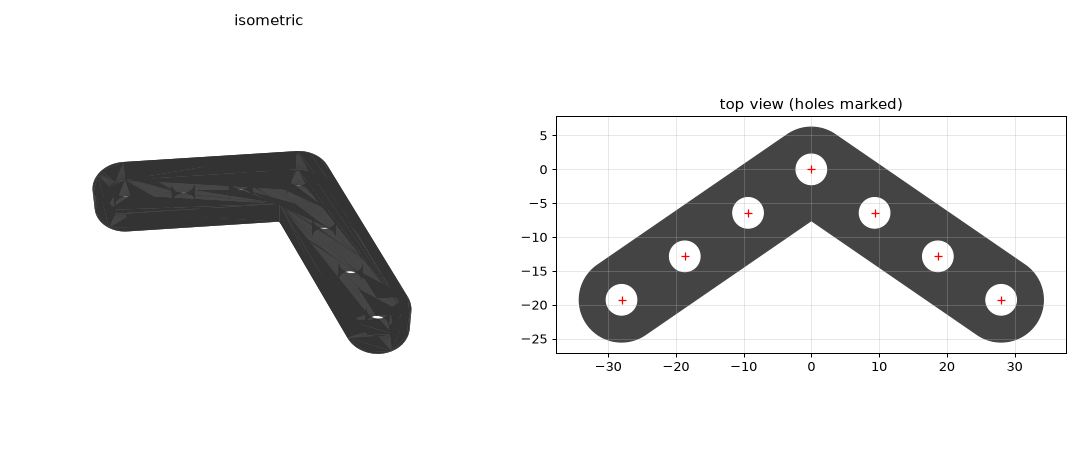
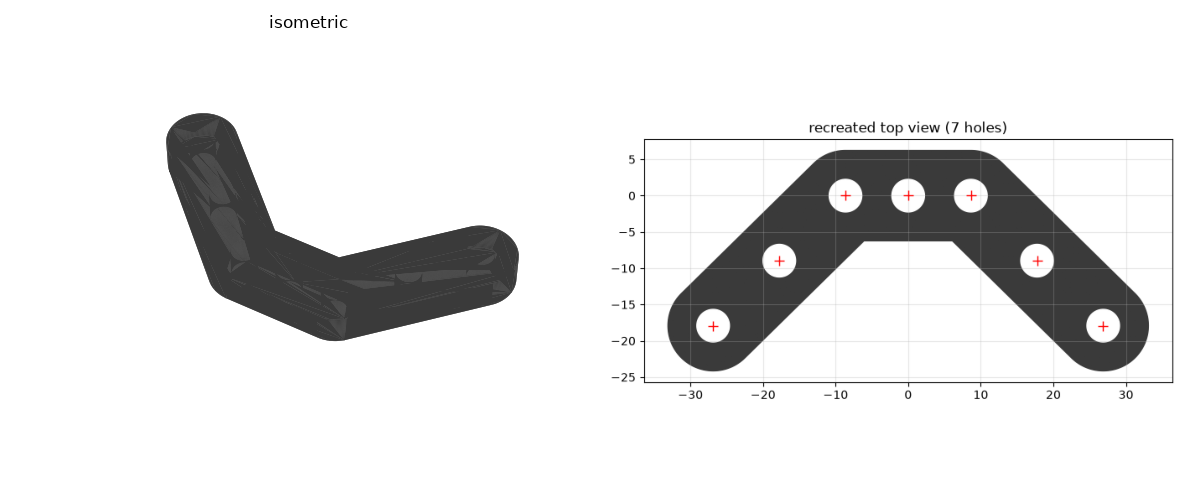
Correct bent-beam hole layout to flat-topped arch (7 holes)
The first pass placed the corner hole at a single sharp apex. Re-analyzing
the most symmetric photo via mirror-symmetry rectification shows the real
part is a flat-topped arch: three holes across a short horizontal top bar
(inner-left, apex, inner-right), then each arm angles down ~44.5 deg to a
rounded tip with two more holes.

Rebuilt the centerline as tipL-midL-innerL-APEX-innerR-midR-tipR. Width
66.19 mm and height 30.37 mm now both match the calipers within ~0.2 mm;
arm pitch ~12.8 mm, hole dia 4.5 mm, width 12.45 mm, thickness 6 mm.
Updated STL, generator, preview render and README.

Claude-Session: https://claude.ai/code/session_012w8HbgqZSGRfGN7yohNehs

diff --git a/models/bent-beam/make_part.py b/models/bent-beam/make_part.py
@@ -1,19 +1,15 @@
 #!/usr/bin/env python3
 """
-Recreate the bent building-kit beam (chevron liftarm) as a solid STL.
+Recreate the bent building-kit beam as a solid STL (v2 - corrected hole layout).
 
-Geometry reverse-engineered from caliper measurements + photos:
-  - Symmetric chevron ("^") beam, two equal arms meeting at an apex.
-  - 7 through-holes total: apex hole + 3 holes on each arm (pitch p along arm).
-  - Interior bend angle ~111 deg (each arm 34.5 deg below horizontal).
+Structure (reconstructed from the symmetric photo via mirror-symmetry
+rectification + caliper measurements):
+  Flat-topped arch, symmetric.  7 through-holes on a single bent centerline:
+      tipL - midL - innerL - APEX - innerR - midR - tipR
+  The three top holes (innerL, APEX, innerR) sit in a short horizontal top
+  bar; each arm then angles down ~44.5 deg to its rounded tip.
 
-Measured inputs (mm):
-  overall tip-to-tip span .... 66.21
-  overall height ............. 30.17
-  arm length (apex->tip hole)  34.00   -> pitch p = 34/3
-  arm width .................. 12.45   -> end/bend radius r = 6.225
-  thickness .................. 6.00
-  hole inner diameter ........ 4.50
+Hole centers (mm, apex at origin, +y downward) -- symmetrized:
 """
 import math
 import numpy as np
@@ -21,39 +17,31 @@ import trimesh
 from shapely.geometry import LineString, Point
 from shapely.ops import unary_union
 
-# ---- parameters -----------------------------------------------------------
-W       = 12.45          # arm width
-r       = W / 2.0        # 6.225  -> rounded tip / bend radius
-p       = 34.00 / 3.0    # 11.333 hole pitch along an arm
-alpha   = math.radians(34.5)   # arm angle below horizontal
-THICK   = 6.0            # part thickness
-HOLE_D  = 4.5            # hole diameter
+# ---- measured / reconstructed parameters ---------------------------------
+W       = 12.45          # arm width  -> tip/bend radius r
+r       = W / 2.0        # 6.225
+THICK   = 6.0
+HOLE_D  = 4.5
 hr      = HOLE_D / 2.0
 
-c, s = math.cos(alpha), math.sin(alpha)
-dR = np.array([ c, -s])   # right-arm direction (down & right)
-dL = np.array([-c, -s])   # left-arm direction  (down & left)
-apex = np.array([0.0, 0.0])
+# symmetric hole centers (mm), apex at origin, +y down
+XI, YI = 8.64,  0.0      # inner (flanks apex, top bar)
+pitch  = 12.78           # along-arm hole pitch
+ang    = math.radians(44.5)
+dx, dy = math.cos(ang), math.sin(ang)   # arm direction (down & out)
 
-# hole centers: apex + k*pitch along each arm, k=1..3
-holes = [apex.copy()]
-for k in (1, 2, 3):
-    holes.append(apex + k * p * dR)
-    holes.append(apex + k * p * dL)
+apex   = (0.0, 0.0)
+innerL = (-XI, YI);          innerR = (XI, YI)
+midL   = (-(XI+pitch*dx), YI+pitch*dy);  midR = (XI+pitch*dx, YI+pitch*dy)
+tipL   = (-(XI+2*pitch*dx), YI+2*pitch*dy); tipR = (XI+2*pitch*dx, YI+2*pitch*dy)
 
-Ltip = apex + 3 * p * dL
-Rtip = apex + 3 * p * dR
+holes = [apex, innerL, innerR, midL, midR, tipL, tipR]
+centerline_pts = [tipL, midL, innerL, apex, innerR, midR, tipR]
 
-# ---- 2D outline -----------------------------------------------------------
-# Buffer the chevron centerline: round caps -> rounded tips centered on the
-# tip holes; round join -> rounded outer bend at the apex.  Exactly the beam.
-centerline = LineString([tuple(Ltip), tuple(apex), tuple(Rtip)])
-outline = centerline.buffer(r, cap_style="round", join_style="round",
-                            resolution=64)
-
-# subtract the 7 holes
-hole_disks = unary_union([Point(h[0], h[1]).buffer(hr, resolution=48)
-                          for h in holes])
+# ---- 2D profile -----------------------------------------------------------
+cl = LineString(centerline_pts)
+outline = cl.buffer(r, cap_style="round", join_style="round", resolution=64)
+hole_disks = unary_union([Point(h).buffer(hr, resolution=48) for h in holes])
 profile = outline.difference(hole_disks)
 
 # ---- extrude --------------------------------------------------------------
@@ -61,16 +49,26 @@ mesh = trimesh.creation.extrude_polygon(profile, height=THICK)
 mesh.process(validate=True)
 
 # ---- report + export ------------------------------------------------------
-span   = 2 * (3 * p * c + r * c)
-height = r / c + (3 * p + r) * s
-print(f"holes: {len(holes)}   pitch={p:.3f}mm   bend={180-2*math.degrees(alpha):.1f}deg")
-print(f"span   {span:6.2f} mm (target 66.21)")
-print(f"height {height:6.2f} mm (target 30.17)")
-print(f"thick  {THICK:6.2f} mm     hole dia {HOLE_D} mm     width {W} mm")
-bb = mesh.bounds
-print("mesh bbox (mm):", np.round(bb[1] - bb[0], 2))
-print("watertight:", mesh.is_watertight, " volume(cm^3):", round(mesh.volume/1000, 2))
+b = mesh.bounds
+print("holes:", len(holes), " pitch: %.2f mm  arm angle: %.1f deg" % (pitch, math.degrees(ang)))
+print("width  %.2f mm (target 66.21)" % (b[1,0]-b[0,0]))
+print("height %.2f mm (target 30.17)" % (b[1,1]-b[0,1]))
+print("thick  %.2f mm   hole dia %.1f   arm width %.2f" % (THICK, HOLE_D, W))
+print("tip-to-tip hole centers: %.2f mm" % (tipR[0]-tipL[0]))
+print("apex->inner: %.2f   inner->mid->tip pitch: %.2f" % (XI, pitch))
+print("watertight:", mesh.is_watertight, " euler:", mesh.euler_number, "(expect -12)")
+mesh.export("bent_beam_7hole.stl")
+print("wrote bent_beam_7hole.stl")
 
-out = "bent_beam_7hole.stl"
-mesh.export(out)
-print("wrote", out)
+# ---- also emit a top-view PNG for visual comparison -----------------------
+import matplotlib; matplotlib.use("Agg"); import matplotlib.pyplot as plt
+fig, ax = plt.subplots(figsize=(7, 4))
+xo, yo = outline.exterior.xy
+ax.fill(xo, [-v for v in yo], color="#3a3a3a")
+for h in holes:
+    cx, cy = Point(h).buffer(hr, resolution=48).exterior.xy
+    ax.fill(cx, [-v for v in cy], color="white")
+    ax.plot(h[0], -h[1], "r+", ms=8)
+ax.set_aspect("equal"); ax.grid(alpha=.3); ax.set_title("recreated top view (7 holes)")
+plt.tight_layout(); plt.savefig("preview_top.png", dpi=100)
+print("wrote preview_top.png")

diff --git a/models/bent-beam/README.md b/models/bent-beam/README.md
@@ -8,30 +8,39 @@ photographs and caliper measurements. Suitable for printing in PLA.
 
 ## The part
 
-- Symmetric two-arm beam meeting at an apex.
-- **7 through-holes total**: one at the apex + three along each arm.
+Symmetric **flat-topped arch** with **7 through-holes** on one bent
+centerline:
+
+```
+      tipL - midL - innerL - APEX - innerR - midR - tipR
+```
+
+- The three top holes (innerL, APEX, innerR) sit in a short horizontal
+  **top bar**; each arm then angles **down ~44.5°** to a rounded tip.
+- So each arm carries three holes (inner / mid / tip) and the apex is the
+  seventh hole, centered between the two inner holes.
 - Rounded (semicircular) ends centered on the tip holes.
-- Obtuse bend of ~111° (each arm 34.5° below horizontal).
 
 ## Measurements used (from calipers)
 
 | Feature | Value |
 |---|---|
-| Tip-to-tip span (along axes) | 66.21 mm |
-| Apex-to-tip height | 30.17 mm |
-| Arm length (apex hole → tip hole) | 34.00 mm |
+| Overall width (tip to tip) | 66.21 mm |
+| Overall height | 30.17 mm |
 | Arm width | 12.45 mm |
 | Thickness | 6.00 mm |
 | Hole inner diameter | 4.50 mm |
 
-Derived: hole pitch along each arm = 34.00 / 3 = **11.33 mm**;
-tip / bend radius = 12.45 / 2 = **6.225 mm**.
+Hole layout was reconstructed from the symmetric ("^") photo by mirror-
+symmetry rectification (removing camera perspective), then scaled so the
+overall width matches 66.21 mm. Derived values:
 
-The reconstruction reproduces the arm length, width, thickness, hole pitch
-and hole diameter exactly, and the overall span/height to within ~0.2 mm.
-(The original's measurements are mutually consistent to ~0.2 mm under the
-"feature-to-feature" reading; a bounding-box caliper reading of the widest
-points would read ~2 mm larger because the rounded ends bulge sideways.)
+- hole pitch along each arm ≈ **12.8 mm**
+- apex → inner-hole horizontal offset ≈ **8.6 mm**
+- tip / bend radius = 12.45 / 2 = **6.225 mm**
+
+The model matches width and height to within ~0.2 mm and reproduces the
+arm width, thickness and hole diameter exactly.
 
 ## Notes / choices
 